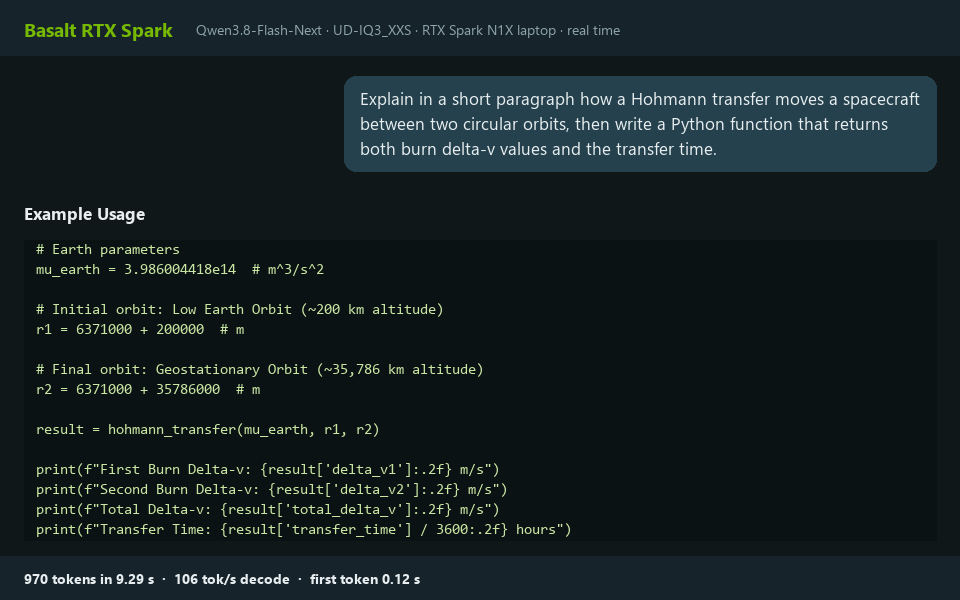
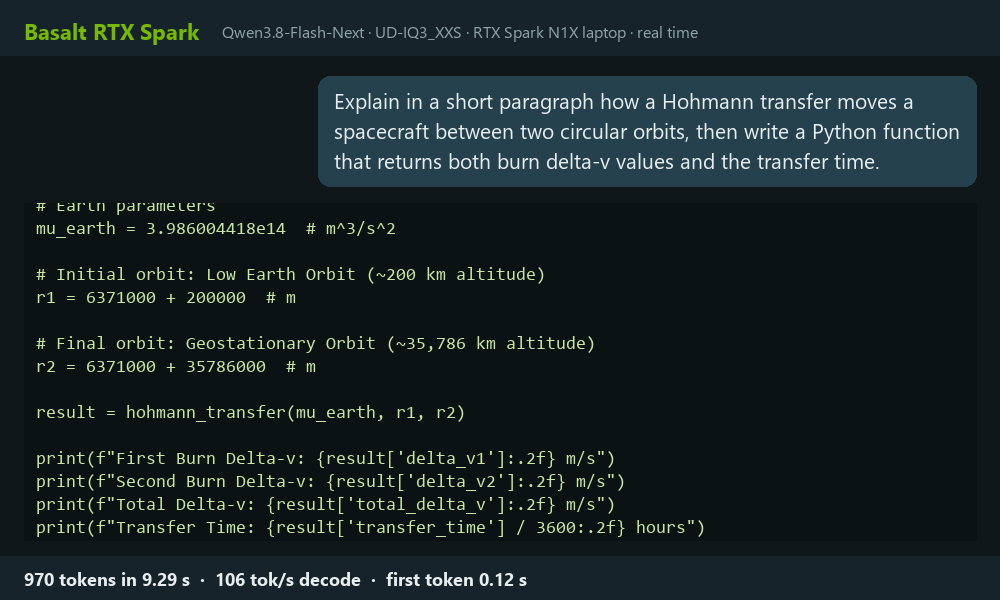
Match the chat clip to the orbital image and split the captions
Render the clip at 1000x600 like the orbital preview, with larger text so it reads at half width, and put the two
captions on separate lines.

diff --git a/docs/showcase/realtime-chat/render.py b/docs/showcase/realtime-chat/render.py
@@ -12,7 +12,7 @@ import re
 
 from PIL import Image, ImageDraw, ImageFont
 
-W, H, FPS = 960, 600, 25
+W, H, FPS = 1000, 600, 25
 BG, PANEL, INK, DIM, ACCENT, USER_BG, CODE_BG = "#0f1719", "#16232a", "#e8eef0", "#8fa3ab", "#76b900", "#24414d", "#0b1214"
 FONTS = os.path.join(os.environ.get("WINDIR", "C:/Windows"), "Fonts")
 
@@ -21,8 +21,8 @@ def font(name, size):
     return ImageFont.truetype(os.path.join(FONTS, name), size)
 
 
-SANS, SANS_B, MONO = font("segoeui.ttf", 17), font("segoeuib.ttf", 17), font("consola.ttf", 15)
-SMALL, SMALL_B, TITLE = font("segoeui.ttf", 14), font("segoeuib.ttf", 14), font("segoeuib.ttf", 19)
+SANS, SANS_B, MONO = font("segoeui.ttf", 21), font("segoeuib.ttf", 21), font("consola.ttf", 18)
+SMALL, SMALL_B, TITLE = font("segoeui.ttf", 16), font("segoeuib.ttf", 18), font("segoeuib.ttf", 22)
 
 
 def wrap(text, fnt, width):
@@ -52,7 +52,7 @@ def layout(text, width):
             continue
         if code:
             for part in wrap(raw.replace("\t", "    "), MONO, width - 24):
-                rows.append(("code", part, 20))
+                rows.append(("code", part, 23))
             continue
         line = raw.replace("**", "").replace("`", "")
         bold = raw.lstrip().startswith("#")
@@ -61,7 +61,7 @@ def layout(text, width):
             rows.append(("gap", "", 10))
             continue
         for part in wrap(line, SANS_B if bold else SANS, width):
-            rows.append(("bold" if bold else "text", part, 25))
+            rows.append(("bold" if bold else "text", part, 30))
     return rows
 
 
@@ -70,14 +70,14 @@ def frame(prompt_rows, rows, header, status, cursor):
     d = ImageDraw.Draw(img)
     d.rectangle([0, 0, W, 56], fill=PANEL)
     d.text((24, 16), "Basalt RTX Spark", font=TITLE, fill=ACCENT)
-    d.text((196, 19), header, font=SMALL, fill=DIM)
+    d.text((222, 20), header, font=SMALL, fill=DIM)
     # user bubble, right-aligned
     bw = max(SANS.getlength(r) for r in prompt_rows) + 32
     by = 76
-    bh = 25 * len(prompt_rows) + 20
+    bh = 30 * len(prompt_rows) + 20
     d.rounded_rectangle([W - 24 - bw, by, W - 24, by + bh], 12, fill=USER_BG)
     for i, r in enumerate(prompt_rows):
-        d.text((W - 24 - bw + 16, by + 10 + 25 * i), r, font=SANS, fill=INK)
+        d.text((W - 24 - bw + 16, by + 10 + 30 * i), r, font=SANS, fill=INK)
     # assistant text, scrolled so the newest line stays visible
     top, bottom = by + bh + 22, H - 52
     total = sum(h for _, _, h in rows)
@@ -95,15 +95,15 @@ def frame(prompt_rows, rows, header, status, cursor):
                 last = (24 + f.getlength(text), y)
         y += h
     if cursor:
-        d.rectangle([last[0] + 3, last[1] + 3, last[0] + 12, last[1] + 21], fill=ACCENT)
+        d.rectangle([last[0] + 3, last[1] + 4, last[0] + 13, last[1] + 25], fill=ACCENT)
     # once the answer scrolls, keep the prompt bubble on top of it
     if total > bottom - top:
         d.rectangle([0, 56, W, top - 6], fill=BG)
         d.rounded_rectangle([W - 24 - bw, by, W - 24, by + bh], 12, fill=USER_BG)
         for i, r in enumerate(prompt_rows):
-            d.text((W - 24 - bw + 16, by + 10 + 25 * i), r, font=SANS, fill=INK)
+            d.text((W - 24 - bw + 16, by + 10 + 30 * i), r, font=SANS, fill=INK)
     d.rectangle([0, H - 44, W, H], fill=PANEL)
-    d.text((24, H - 32), status, font=SMALL_B, fill=INK)
+    d.text((24, H - 34), status, font=SMALL_B, fill=INK)
     return img
 
 
@@ -117,7 +117,7 @@ def main() -> int:
     rec = json.load(open(a.stream, encoding="utf-8"))
     ev, s = rec["events"], rec["summary"]
     header = f"Qwen3.8-Flash-Next · {a.pack} · RTX Spark N1X laptop · real time"
-    prompt_rows = [r for line in rec["prompt"].split("\n") for r in wrap(line, SANS, 560)]
+    prompt_rows = [r for line in rec["prompt"].split("\n") for r in wrap(line, SANS, 640)]
     end = ev[-1]["t"]
     frames, i, text = [], 0, ""
     n = int((end + a.hold) * FPS) + 1

diff --git a/README.md b/README.md
@@ -25,7 +25,7 @@ decoding instead of stopping them.
   <a href="docs/showcase/orbital-transfer"><img src="docs/showcase/orbital-transfer/preview.webp" width="49%" alt="The Long Way Up, an animated orbital transfer drawn by Flash-Next on RTX Spark."></a>
 </p>
 
-*Left: one chat on the laptop, replayed at its recorded speed (106 tok/s).* [Recording and tools](docs/showcase/realtime-chat)
+*Left: one chat on the laptop, replayed at its recorded speed (106 tok/s).* [Recording and tools](docs/showcase/realtime-chat)<br>
 *Right: from one prompt in 123 seconds, Flash-Next wrote this animated SVG of a probe moving between two Earth orbits.*
 [Prompt, original SVG and physics checks](docs/showcase/orbital-transfer)
 
